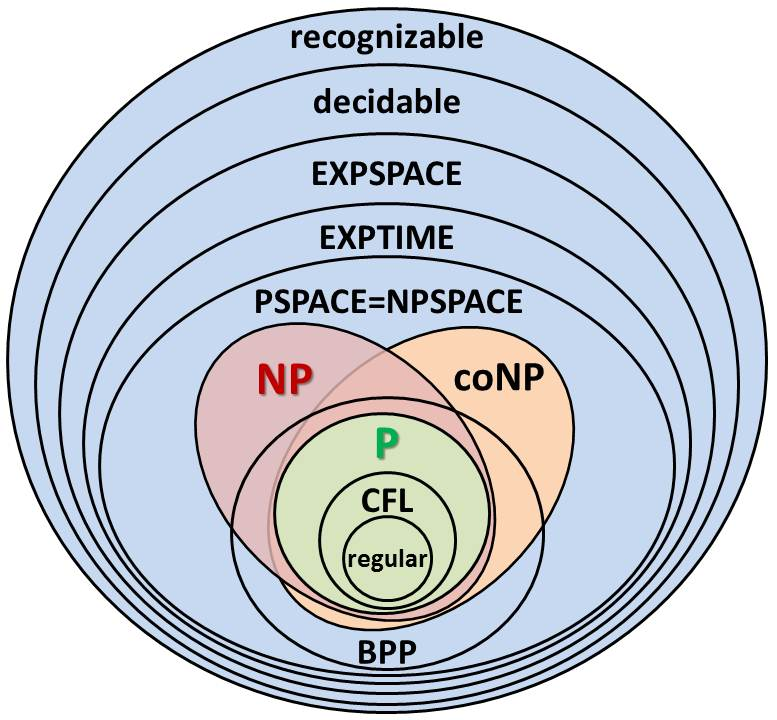
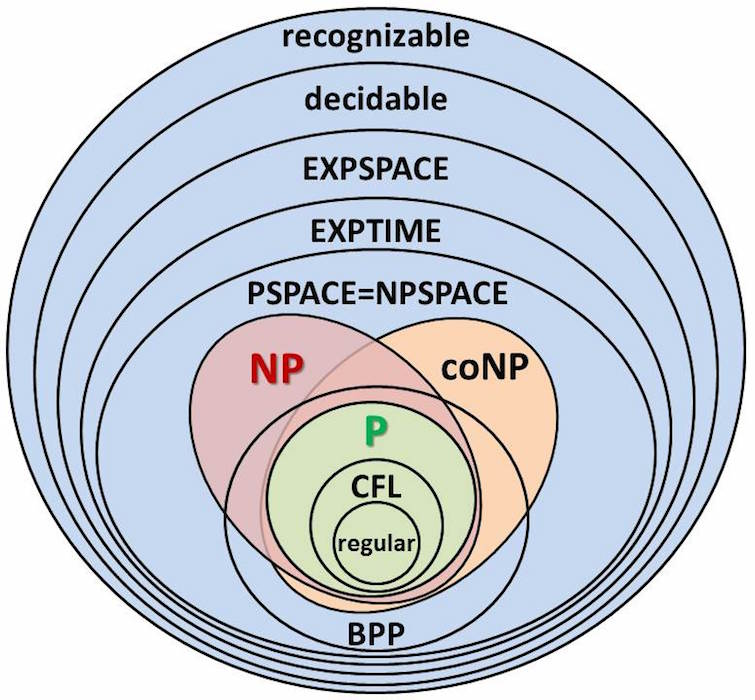
StagePlay link and photo change

diff --git a/index.html b/index.html
@@ -132,7 +132,9 @@
         </div>
     </section>
 
-    <!-- Portfolio Grid Section -->
+    <!-- Portfolio Grid Section 
+            图片大小必须为为正方形，显得consistent，高度限制在 300 px
+        -->
     <section id="Projects" class="bg-light-gray">
         <div class="container">
             <div class="row">
@@ -180,58 +182,14 @@
                                 <i class="fa fa-plus fa-3x"></i>
                             </div>
                         </div>
-                        <img src="img/project/magzine_coach.png" style="height:300px"  class="img-responsive" alt="">
+                        <img src="img/project/football_coach.jpg" style="height:300px"  class="img-responsive" alt="">
                     </a>
                     <div class="portfolio-caption">
-                        <h4>Mathematical Contest in Modeling</h4>
+                        <h4>Best Coach</h4>
                         <p class="text-muted">Contest</p>
                     </div>
                 </div>
-
-<!--  Other Projects... Todo... 以后慢慢放进来 
-                <div class="col-md-4 col-sm-6 portfolio-item">
-                    <a href="#portfolioModal4" class="portfolio-link" data-toggle="modal">
-                        <div class="portfolio-hover">
-                            <div class="portfolio-hover-content">
-                                <i class="fa fa-plus fa-3x"></i>
-                            </div>
-                        </div>
-                        <img src="img/portfolio/golden.png" class="img-responsive" alt="">
-                    </a>
-                    <div class="portfolio-caption">
-                        <h4>Golden</h4>
-                        <p class="text-muted">Website Design</p>
-                    </div>
-                </div>
-                <div class="col-md-4 col-sm-6 portfolio-item">
-                    <a href="#portfolioModal5" class="portfolio-link" data-toggle="modal">
-                        <div class="portfolio-hover">
-                            <div class="portfolio-hover-content">
-                                <i class="fa fa-plus fa-3x"></i>
-                            </div>
-                        </div>
-                        <img src="img/portfolio/escape.png" class="img-responsive" alt="">
-                    </a>
-                    <div class="portfolio-caption">
-                        <h4>Escape</h4>
-                        <p class="text-muted">Website Design</p>
-                    </div>
-                </div>
-                <div class="col-md-4 col-sm-6 portfolio-item">
-                    <a href="#portfolioModal6" class="portfolio-link" data-toggle="modal">
-                        <div class="portfolio-hover">
-                            <div class="portfolio-hover-content">
-                                <i class="fa fa-plus fa-3x"></i>
-                            </div>
-                        </div>
-                        <img src="img/portfolio/dreams.png" class="img-responsive" alt="">
-                    </a>
-                    <div class="portfolio-caption">
-                        <h4>Dreams</h4>
-                        <p class="text-muted">Website Design</p>
-                    </div>
-                </div>
--->
+                <!--  Other Projects... Todo... 以后慢慢放进来  -->
             </div>  <!-- end row for projects -->
         </div>  <!-- end container -->
     </section>
@@ -350,19 +308,6 @@
         </div>
     </section>
 
-<!-- Aside, aside class 后面的名字可以自己设，并不是内设的class。Don't know what to fit here
-    <aside class="pictures">
-        <div class="container">
-            <div class="row">
-                <div class="col-md-3 col-sm-6">
-                    <a href="#">
-                        <img src="img/logos/creative-market.jpg" class="img-responsive img-centered" alt="">
-                    </a>
-                </div>
-            </div>
-        </div>
-    </aside>
--->
     <!-- contact Section -->
     <section id="contact">
         <div class="container">
@@ -487,12 +432,12 @@
                     <div class="col-lg-8 col-lg-offset-2">
                         <div class="modal-body">
                             <!-- Project Details Go Here -->
-                            <h2>StagePlay: for Drama Players</h2>
+                            <h2> <a href="https://itunes.apple.com/us/app/stageplay/id984998234">StagePlay</a>: for Drama Players</h2>
                             <p class="item-intro text-muted">iOS App to prepare drama and plays.</p>
                             <img class="img-responsive img-centered" src="img/project/stageplay2.PNG" alt="">
                             <p>A tool for drama enthusiasts to memorize lines and practice scripts, and its available now!  We aim to make collaboration with partners as simple as a button press and as effective as having each other in the same room. </p>
                             <p>
-                                <strong>Want this application? </strong>You can download it at <a href="#">App Store</a>, or you can visit the homepage <a href="#">here</a>.</p>
+                                <strong>Want this application? </strong>You can download it at <a href="https://itunes.apple.com/us/app/stageplay/id984998234">App Store</a> </p>
                             <ul class="list-inline">
                                 <li>Date: April 2015</li>
                                 <li>Plateform: iOS, iPhone, iPad</li>
@@ -521,7 +466,7 @@
                         <div class="modal-body">
                             <h2>EECS 376: Theory of Computation</h2>
                             <p class="item-intro text-muted">Known as Foundations of Computer Science, is a theoractical course in University of Michigan</p>
-                            <img class="img-responsive img-centered" src="img/project/complexity.jpg" alt="">
+                            <img class="img-responsive img-centered" src="img/project/sipser.jpg" alt="">
                             <p><a href="https://drive.google.com/drive/u/1/#folders/0B1uC_2gHi-TDTzlycVQ0dk91OEk/0B1uC_2gHi-TDbGtMa0hQR2d3OFk" target="_blank">EECS 376</a> is an interesting introduction course on Finite Automata, CFL, Turing Machine, NP-Complete, Approximation Algorithm and Randomized Algorithm </p>
     
                             <p>My Discussion section:  Wednesday 2:00 PM at 1003 EECS.</p>
@@ -552,8 +497,8 @@
                             <h2>Mathematical Contest in Modeling 2014</h2>
                             <p class="item-intro text-muted">Honor Mentioned in MCM 2014</p>
                             <img class="img-responsive img-centered" src="img/project/magzine_coach.png" alt="">
-                            <p>We ranked the <a href="docs/magzine.pdf" target="_blank">best college Football coach</a> for the past 100 years. We used R and Analytic Hierarchy Process to analyze sports data.</p>
-                            <p>You can download our paper at <a href="docs/ranking.pdf" target="_blank"> HERE </a>.</p>
+                            <p>We ranked the <a href="docs/magzine.pdf" target="_blank">best college sports coach</a> for the past 100 years. We used R and Analytic Hierarchy Process to analyze sports data.</p>
+                            <p>You can download our full paper at <a href="docs/ranking.pdf" target="_blank"> HERE </a>.</p>
                             <button type="button" class="btn btn-primary" data-dismiss="modal"><i class="fa fa-times"></i> Close Project</button>
                         </div>
                     </div>
